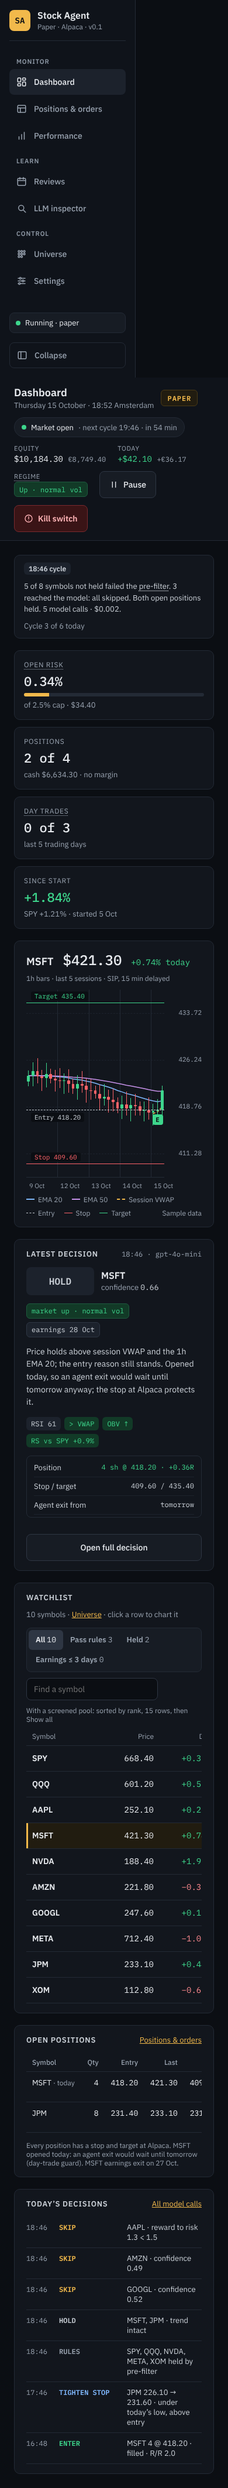
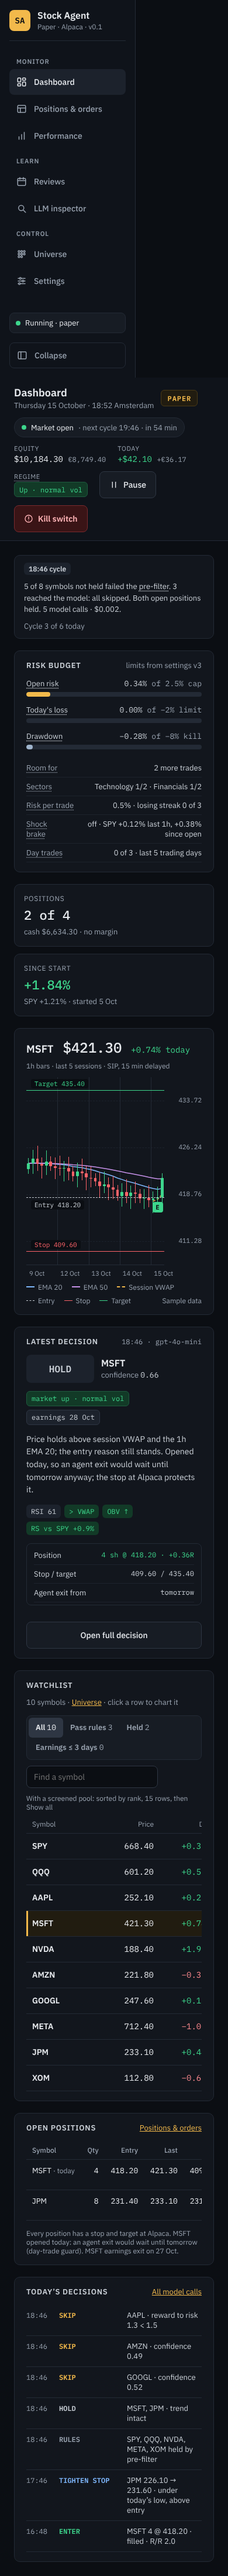
Spec change

Changed region(s): [[0.0615, 0.0, 0.8923, 0.9936], [0.8, 0.7142, 0.8308, 0.8073], [0.8, 0.4037, 0.8308, 0.4347]]

diff --git a/design/screens/Main.dc.html b/design/screens/Main.dc.html
@@ -75,32 +75,48 @@ table{border-collapse:collapse}
   <span style="flex: 1 1 420px; color: #C9CFD6; line-height: 1.5">5 of 8 symbols not held failed the <span title="The rules check that decides whether the model is asked at all." style="text-decoration: underline dotted; text-underline-offset: 3px; cursor: help">pre-filter</span>. 3 reached the model: all skipped. Both open positions held. 5 model calls · $0.002.</span>
   <span style="color: #98A2AF">Cycle 3 of 6 today</span>
 </div>
-<section aria-label="Account summary" style="display: flex; flex-wrap: wrap; gap: 12px">
-<div style="flex: 1 1 190px; padding: 16px; background: #12161D; border: 1px solid #232A35; border-radius: 10px; display: flex; flex-direction: column; gap: 6px; min-width: 0">
-  <div title="Loss if every open position hit its stop. JPM counts as 0: its stop is above entry." style="font-size: 12px; color: #98A2AF; text-transform: uppercase; letter-spacing: 0.06em; text-decoration: underline dotted; text-underline-offset: 3px; cursor: help; align-self: flex-start">Open risk</div>
-  <div style="font-family: 'IBM Plex Mono', monospace; font-size: 22px; font-weight: 500; color: #E7EAEE; white-space: nowrap">0.34%</div>
-  <div style="height: 6px; background: #232A35; border-radius: 3px; overflow: hidden"><div style="width: 14%; height: 6px; background: #F2B94B"></div></div>
-  <div style="font-size: 13px; color: #98A2AF">of 2.5% cap · $34.40</div>
+<div style="display: flex; flex-wrap: wrap; gap: 20px; align-items: stretch">
+<section aria-label="Risk budget" style="flex: 999 1 600px; min-width: 0; background: #12161D; border: 1px solid #232A35; border-radius: 10px; padding: 16px 20px; display: flex; flex-direction: column; gap: 14px; box-sizing: border-box">
+  <div style="display: flex; align-items: baseline; justify-content: space-between; gap: 12px; flex-wrap: wrap"><h2 style="margin: 0; font-size: 13px; font-weight: 600; color: #C9CFD6; text-transform: uppercase; letter-spacing: 0.06em">Risk budget</h2><span style="font-size: 13px; color: #98A2AF">limits from settings v3</span></div>
+  <div style="display: flex; flex-wrap: wrap; gap: 16px 28px">
+    <div style="flex: 1 1 300px; display: flex; flex-direction: column; gap: 14px; min-width: 0">
+      <div style="display: flex; flex-direction: column; gap: 6px">
+  <div style="display: flex; justify-content: space-between; gap: 12px; font-size: 13px"><span title="What you would lose if every open position and working entry hit its stop. JPM counts as 0: its stop is above entry." style="color: #C9CFD6; text-decoration: underline dotted; text-underline-offset: 3px; cursor: help">Open risk</span><span style="font-family: 'IBM Plex Mono', monospace; color: #C9CFD6">0.34% <span style="color: #98A2AF">of 2.5% cap</span></span></div>
+  <div style="height: 8px; background: #232A35; border-radius: 4px; overflow: hidden"><div style="width: 13.600000000000001%; height: 8px; border-radius: 4px; background: #F2B94B"></div></div>
 </div>
-<div style="flex: 1 1 190px; padding: 16px; background: #12161D; border: 1px solid #232A35; border-radius: 10px; display: flex; flex-direction: column; gap: 6px; min-width: 0">
+      <div style="display: flex; flex-direction: column; gap: 6px">
+  <div style="display: flex; justify-content: space-between; gap: 12px; font-size: 13px"><span title="Loss in the current session. At −2% no new entries for the rest of the session." style="color: #C9CFD6; text-decoration: underline dotted; text-underline-offset: 3px; cursor: help">Today's loss</span><span style="font-family: 'IBM Plex Mono', monospace; color: #C9CFD6">0.00% <span style="color: #98A2AF">of −2% limit</span></span></div>
+  <div style="height: 8px; background: #232A35; border-radius: 4px; overflow: hidden"><div style="width: 0%; height: 8px; border-radius: 4px; background: #9FB4CC"></div></div>
+</div>
+      <div style="display: flex; flex-direction: column; gap: 6px">
+  <div style="display: flex; justify-content: space-between; gap: 12px; font-size: 13px"><span title="How far equity is below its highest point in this run. At −8% the kill switch turns on and everything is closed." style="color: #C9CFD6; text-decoration: underline dotted; text-underline-offset: 3px; cursor: help">Drawdown</span><span style="font-family: 'IBM Plex Mono', monospace; color: #C9CFD6">−0.28% <span style="color: #98A2AF">of −8% kill</span></span></div>
+  <div style="height: 8px; background: #232A35; border-radius: 4px; overflow: hidden"><div style="width: 3.5000000000000004%; height: 8px; border-radius: 4px; background: #9FB4CC"></div></div>
+</div>
+    </div>
+    <div style="flex: 1 1 260px; min-width: 0">
+      <div style="display: flex; justify-content: space-between; gap: 12px; padding: 7px 0; border-bottom: 1px solid #1C222C; font-size: 13px"><span title="The smallest of: positions left, open risk left ÷ risk per trade, and cash ÷ max position size." style="color: #98A2AF; text-decoration: underline dotted; text-underline-offset: 3px; cursor: help">Room for</span><span style="color: #C9CFD6; text-align: right">2 more trades</span></div>
+      <div style="display: flex; justify-content: space-between; gap: 12px; padding: 7px 0; border-bottom: 1px solid #1C222C; font-size: 13px"><span title="At most 2 positions per sector; working entries count." style="color: #98A2AF; text-decoration: underline dotted; text-underline-offset: 3px; cursor: help">Sectors</span><span style="color: #C9CFD6; text-align: right">Technology 1/2 · Financials 1/2</span></div>
+      <div style="display: flex; justify-content: space-between; gap: 12px; padding: 7px 0; border-bottom: 1px solid #1C222C; font-size: 13px"><span title="After 3 losses in a row risk per trade is halved until a win." style="color: #98A2AF; text-decoration: underline dotted; text-underline-offset: 3px; cursor: help">Risk per trade</span><span style="color: #C9CFD6; text-align: right">0.5% · losing streak 0 of 3</span></div>
+      <div style="display: flex; justify-content: space-between; gap: 12px; padding: 7px 0; border-bottom: 1px solid #1C222C; font-size: 13px"><span title="No new entries this session when SPY drops 1.5% in a 1h bar or 2.5% since the open." style="color: #98A2AF; text-decoration: underline dotted; text-underline-offset: 3px; cursor: help">Shock brake</span><span style="color: #C9CFD6; text-align: right">off · SPY +0.12% last 1h, +0.38% since open</span></div>
+      <div style="display: flex; justify-content: space-between; gap: 12px; padding: 7px 0; border-bottom: 1px solid #1C222C; font-size: 13px"><span title="Pattern day trading guard. At 3, no new entries until the count drops." style="color: #98A2AF; text-decoration: underline dotted; text-underline-offset: 3px; cursor: help">Day trades</span><span style="color: #C9CFD6; text-align: right">0 of 3 · last 5 trading days</span></div>
+    </div>
+  </div>
+</section>
+<div style="flex: 1 1 240px; display: flex; flex-direction: column; gap: 12px; min-width: 0">
+  <div style="flex: 1 1 auto; padding: 16px; background: #12161D; border: 1px solid #232A35; border-radius: 10px; display: flex; flex-direction: column; gap: 6px; min-width: 0">
   <div style="font-size: 12px; color: #98A2AF; text-transform: uppercase; letter-spacing: 0.06em">Positions</div>
   <div style="font-family: 'IBM Plex Mono', monospace; font-size: 22px; font-weight: 500; color: #E7EAEE; white-space: nowrap">2 of 4</div>
   
   <div style="font-size: 13px; color: #98A2AF">cash $6,634.30 · no margin</div>
 </div>
-<div style="flex: 1 1 190px; padding: 16px; background: #12161D; border: 1px solid #232A35; border-radius: 10px; display: flex; flex-direction: column; gap: 6px; min-width: 0">
-  <div title="Pattern day trading guard. At 3, no new entries until the count drops." style="font-size: 12px; color: #98A2AF; text-transform: uppercase; letter-spacing: 0.06em; text-decoration: underline dotted; text-underline-offset: 3px; cursor: help; align-self: flex-start">Day trades</div>
-  <div style="font-family: 'IBM Plex Mono', monospace; font-size: 22px; font-weight: 500; color: #E7EAEE; white-space: nowrap">0 of 3</div>
-  
-  <div style="font-size: 13px; color: #98A2AF">last 5 trading days</div>
-</div>
-<div style="flex: 1 1 190px; padding: 16px; background: #12161D; border: 1px solid #232A35; border-radius: 10px; display: flex; flex-direction: column; gap: 6px; min-width: 0">
+  <div style="flex: 1 1 auto; padding: 16px; background: #12161D; border: 1px solid #232A35; border-radius: 10px; display: flex; flex-direction: column; gap: 6px; min-width: 0">
   <div style="font-size: 12px; color: #98A2AF; text-transform: uppercase; letter-spacing: 0.06em">Since start</div>
   <div style="font-family: 'IBM Plex Mono', monospace; font-size: 22px; font-weight: 500; color: #3DD68C; white-space: nowrap">+1.84%</div>
   
   <div style="font-size: 13px; color: #98A2AF">SPY +1.21% · started 5 Oct</div>
 </div>
-</section>
+</div>
+</div>
 <div style="display: flex; flex-wrap: wrap; gap: 20px; align-items: stretch">
 <section aria-label="Price chart" style="flex: 999 1 600px; min-width: 0; background: #12161D; border: 1px solid #232A35; border-radius: 10px; padding: 16px 20px; display: flex; flex-direction: column; gap: 12px; box-sizing: border-box">
   <div style="display: flex; flex-wrap: wrap; align-items: baseline; gap: 8px 16px">

diff --git a/docs/SPEC.md b/docs/SPEC.md
@@ -282,7 +282,7 @@ The GUI reuses Trading Agent's visual language: the dark "instrument panel" styl
 
 | Screen | What it shows |
 | --- | --- |
-| Dashboard | Price chart for the selected symbol (1h bars, VWAP, EMAs, entry, stop and target lines); watchlist with price, day change, rules status and earnings date; open positions with unrealized P&L and stop distance; latest decisions feed; next-cycle timer; latest-decision card for the selected symbol (action, confidence, market regime, earnings date, reasoning, signal chips, and a three-line summary: the failed check and proposed stop and target for a skip, the position and its stop and target for a held symbol, or the pre-filter reason when no model call was made) |
+| Dashboard | Risk budget card (see below); price chart for the selected symbol (1h bars, VWAP, EMAs, entry, stop and target lines); watchlist with price, day change, rules status and earnings date; open positions with unrealized P&L and stop distance; latest decisions feed; next-cycle timer; latest-decision card for the selected symbol (action, confidence, market regime, earnings date, reasoning, signal chips, and a three-line summary: the failed check and proposed stop and target for a skip, the position and its stop and target for a held symbol, or the pre-filter reason when no model call was made) |
 | Decision detail | Same layout as Trading Agent's decision drawer: action with size and a confidence bar; safety gates (code checks, then risk gates, each pass, fail or reduced); signal stack with 1h and daily columns; agent reasoning with named risks and news used; entry, stop, target and invalidation tiles; outcome after 1h, 1 session and 5 sessions with best and worst R and which of stop or target was touched first; order status; links to the position and the model call |
 | Positions and orders | Open positions, their bracket legs at Alpaca, order history with fills and slippage, reconciliation status, day-trade counter (last 5 trading days) |
 | Performance | Equity curve vs SPY buy-and-hold (USD and EUR), raw vs adjusted P&L, win rate, average R, max drawdown, results by symbol and by regime |
@@ -291,6 +291,8 @@ The GUI reuses Trading Agent's visual language: the dark "instrument panel" styl
 | States and dialogs | Market closed, early close, kill switch on, reconciliation mismatch, data source down, pending approval (supervised mode); confirm dialogs for Stop & flatten, reset paper account and settings changes |
 
 The layout must also work at phone width, so the VPS version can be checked from a phone.
+
+**Risk budget card.** The dashboard shows how much of each limit is in use, computed by the same functions as the risk gates (never recomputed in the GUI): open risk of positions and working entries against the 2.5% cap; today's loss against the 2% daily limit; drawdown from the run's peak against the 8% kill. Each is a meter that turns amber above 75% of its limit and red at the limit. Underneath: room for more trades (the smallest of positions left, open risk left ÷ current risk per trade, and cash ÷ max position size, rounded down, with "limited by cash" or "limited by open risk" when that is the smallest), positions per sector against the sector cap, current risk per trade with the losing-streak count, the shock brake state with SPY's move over the last 1h bar and since the open, and day trades in the last 5 trading days. Every label explains its rule on hover. It refreshes with the positions, orders and header updates.
 
 **Settings screen.** Sections with a section list on the left (a scrolling row on a phone) and a "Find a setting" filter: API keys and data, Trading (execution mode, universe, slippage), Risk limits (per trade, portfolio, brakes), Entry rules and checks, Earnings, Model and reviews, Schedule (read-only), History and Paper account. Each setting is one row: name, one-line explanation, the control with its unit, and its default underneath. Values fixed by the spec (cash only, cycle times) are shown locked. A changed value is highlighted with "Changed from …" and Reset, and the section list shows how many changes each section has. A bar at the bottom lists the unsaved changes (old → new), asks for a reason (required, shown in History) and has Discard and "Save as v<n>". Values are checked as they are typed against the allowed ranges (for example RSI from must be below RSI to); Save is disabled while one is invalid. Leaving the page with unsaved changes asks first. Keys are not part of this flow: they are saved per key, straight away (see API keys).
 
@@ -360,7 +362,7 @@ Ten PRs for v0.1, each reviewable on its own; v0.2 continues with PR 11 and 12. 
 7. **Performance and outcomes.** Outcome worker, equity snapshots, SPY benchmark, raw vs adjusted P&L, performance screen.
 8. **Hardening.** Logging and rotation, daily database copy, error kill switch, startup recovery after a crash mid-cycle, README for running locally. *Done when:* a crash mid-cycle recovers cleanly.
 9. **Reviews.** Weekly review, daily briefing and verdicts (see Reviews).
-10. **Settings and API keys.** Settings screen redesign (see Settings screen) and keys entered in Settings (see API keys), including the one-time import from `.env`. *Done when:* the app runs with an `.env` that has no keys, and the 4-week paper run can start.
+10. **Settings and API keys.** Settings screen redesign (see Settings screen) and keys entered in Settings (see API keys), including the one-time import from `.env`, plus the dashboard risk budget card (see Risk budget card). *Done when:* the app runs with an `.env` that has no keys, and the 4-week paper run can start.
 11. **Pool and liquidity screen (v0.2).** `universe_pool` and `universe_screens`, pool loading from `pool.csv`, add/import/remove, warm-up, daily screen with hysteresis, rank, universe mode in Settings, Universe screen. Default mode stays `fixed`. *Done when:* in simulated mode the screen over the 72-symbol pool gives the expected statuses, and fixed mode is unchanged.
 12. **Cycles at scale (v0.2).** Cycles over eligible plus held symbols, multi-symbol bar requests, model calls in rank order, cycle duration and warning, 5-min bar pruning, dashboard watchlist filters and search. *Done when:* a simulated session with the 72-symbol pool keeps every cycle under 10 minutes and under 150 Alpaca calls per minute, and every held position is handled.
 

diff --git a/design/DESIGN.md b/design/DESIGN.md
@@ -28,7 +28,7 @@ How Stock Agent looks and what it says. It uses the same visual language as Trad
 
 | File | Screen | Built in |
 | --- | --- | --- |
-| `Main.dc.html` | Dashboard: header, this-cycle line, summary cards, price chart, latest decision, watchlist, open positions, today's decisions | PR 1 (header, sidebar), PR 3 (watchlist rules column), PR 6 (rest) |
+| `Main.dc.html` | Dashboard: header, this-cycle line, risk budget card with positions and since-start tiles, price chart, latest decision, watchlist, open positions, today's decisions | PR 1 (header, sidebar), PR 3 (watchlist rules column), PR 6 (rest), PR 10 (risk budget card) |
 | `Decision.dc.html` | Decision detail drawer, 560 px, in Trading Agent's layout (gates, signal stack, reasoning, levels, outcome), opened from the dashboard, positions and inspector | PR 4 (model part), PR 6 |
 | `Positions.dc.html` | Positions & orders: reconciliation status, positions with their bracket legs, day trades, account, order history | PR 5 (data), PR 6 |
 | `Performance.dc.html` | Performance: summary, equity vs SPY with USD/EUR switch, by regime, decisions and outcomes, closed trades | PR 7 |

diff --git a/docs/CHANGES.md b/docs/CHANGES.md
@@ -2,6 +2,10 @@
 
 Newest first.
 
+## 2026-10-18 — Risk budget card on the dashboard
+
+- GUI: new "Risk budget card" paragraph. Meters for open risk (positions and working entries) vs the 2.5% cap, today's loss vs the 2% daily limit and drawdown vs the 8% kill (amber above 75%, red at the limit), plus room for more trades, sector use, risk per trade with losing streak, shock brake with SPY moves, and day trades. Computed by the risk-gate functions, not in the GUI. Built in PR 10.
+
 ## 2026-10-18 — Larger universe (v0.2, PR 11 and 12)
 
 - New "Larger universe (v0.2)" section: `universe.mode` fixed (default, v0.1 unchanged) or screened. Pool of up to 150 symbols, defaults in `backend/universe/pool.csv` (72 symbols). Daily screen at 08:10 New York: history loaded, tradable, price ≥ $10, one share fits in max position, 20-session average dollar volume ≥ $100M; eligible symbols drop out after 3 failed screens in a row; list fixed per session; held symbols always handled. Rank = 20-session return minus SPY's; model calls go to held positions, then rules-passing candidates in rank order, still capped at 10.

diff --git a/design/CHANGES.md b/design/CHANGES.md
@@ -2,6 +2,10 @@
 
 Newest first. Each entry names the screens it touches.
 
+## 2026-10-18 — Risk budget card
+
+- `Main.dc.html`: the four summary tiles are replaced by a "Risk budget" card (meters for open risk vs 2.5% cap, today's loss vs −2% limit, drawdown vs −8% kill; facts for room for more trades, sectors, risk per trade and losing streak, shock brake, day trades; every label has a hover explanation) next to two tiles (Positions, Since start). The open-risk and day-trade tiles moved into the card. Screenshots `Main.png` and `Main-390.png` re-rendered.
+
 ## 2026-10-18 — Larger universe (v0.2)
 
 - New screen `Universe.dc.html` in the Control group (every sidebar updated): mode banner, five count tiles, today's screen funnel (72 → 69), how the screen works, and the pool table with filters (All, Eligible, Held, Excluded, Warming up), search, rank, 20-session dollar volume, return vs SPY, status with reason, Add to pool, Import CSV and remove.

diff --git a/docs/README.md b/docs/README.md
@@ -24,7 +24,7 @@
 | 7 | Performance and outcomes | Decision layer (outcome tracking); Alpaca integration (paper realism) | `Performance` |
 | 8 | Hardening | Risk management (errors); Data model (backups) | `States` (error states) |
 | 9 | Reviews | Reviews; Data model | `Reviews`, verdict in `Decision` |
-| 10 | Settings and API keys | GUI (Settings screen); API keys; Data model | `Settings` |
+| 10 | Settings and API keys | GUI (Settings screen, Risk budget card); API keys; Data model | `Settings`, risk budget card in `Main` |
 | 11 | Pool and liquidity screen (v0.2) | Larger universe (pool, daily screen, rank, GUI); Data model | `Universe`, universe rows in `Settings` |
 | 12 | Cycles at scale (v0.2) | Larger universe (cycles at scale); Decision layer (one cycle) | Watchlist filters in `Main` |
 
